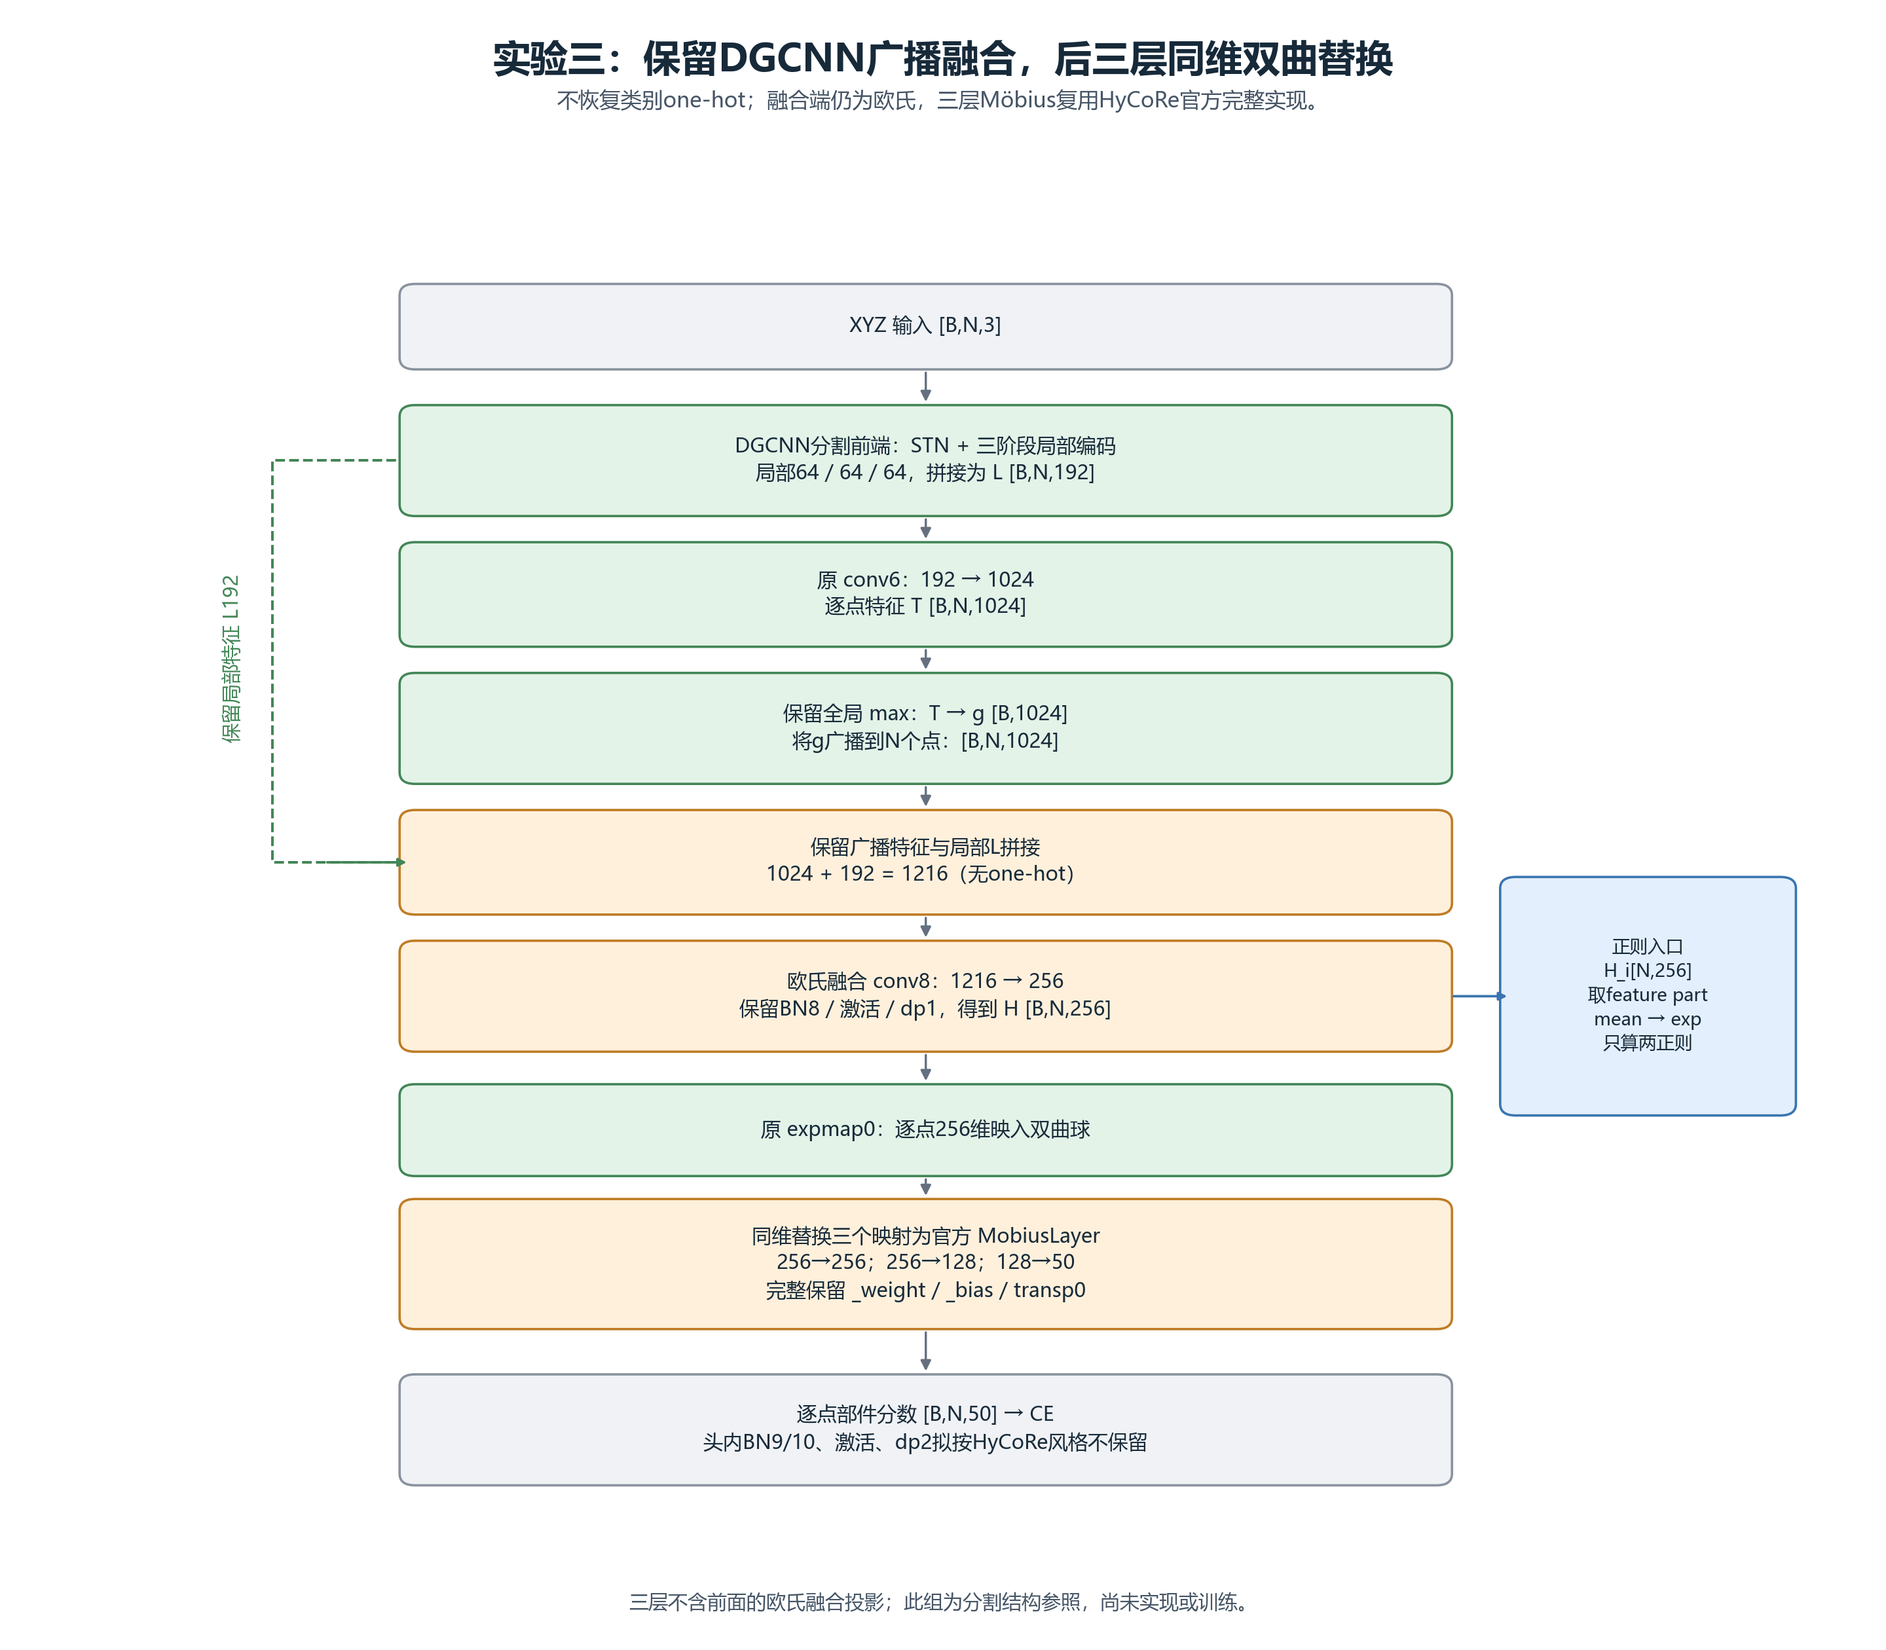
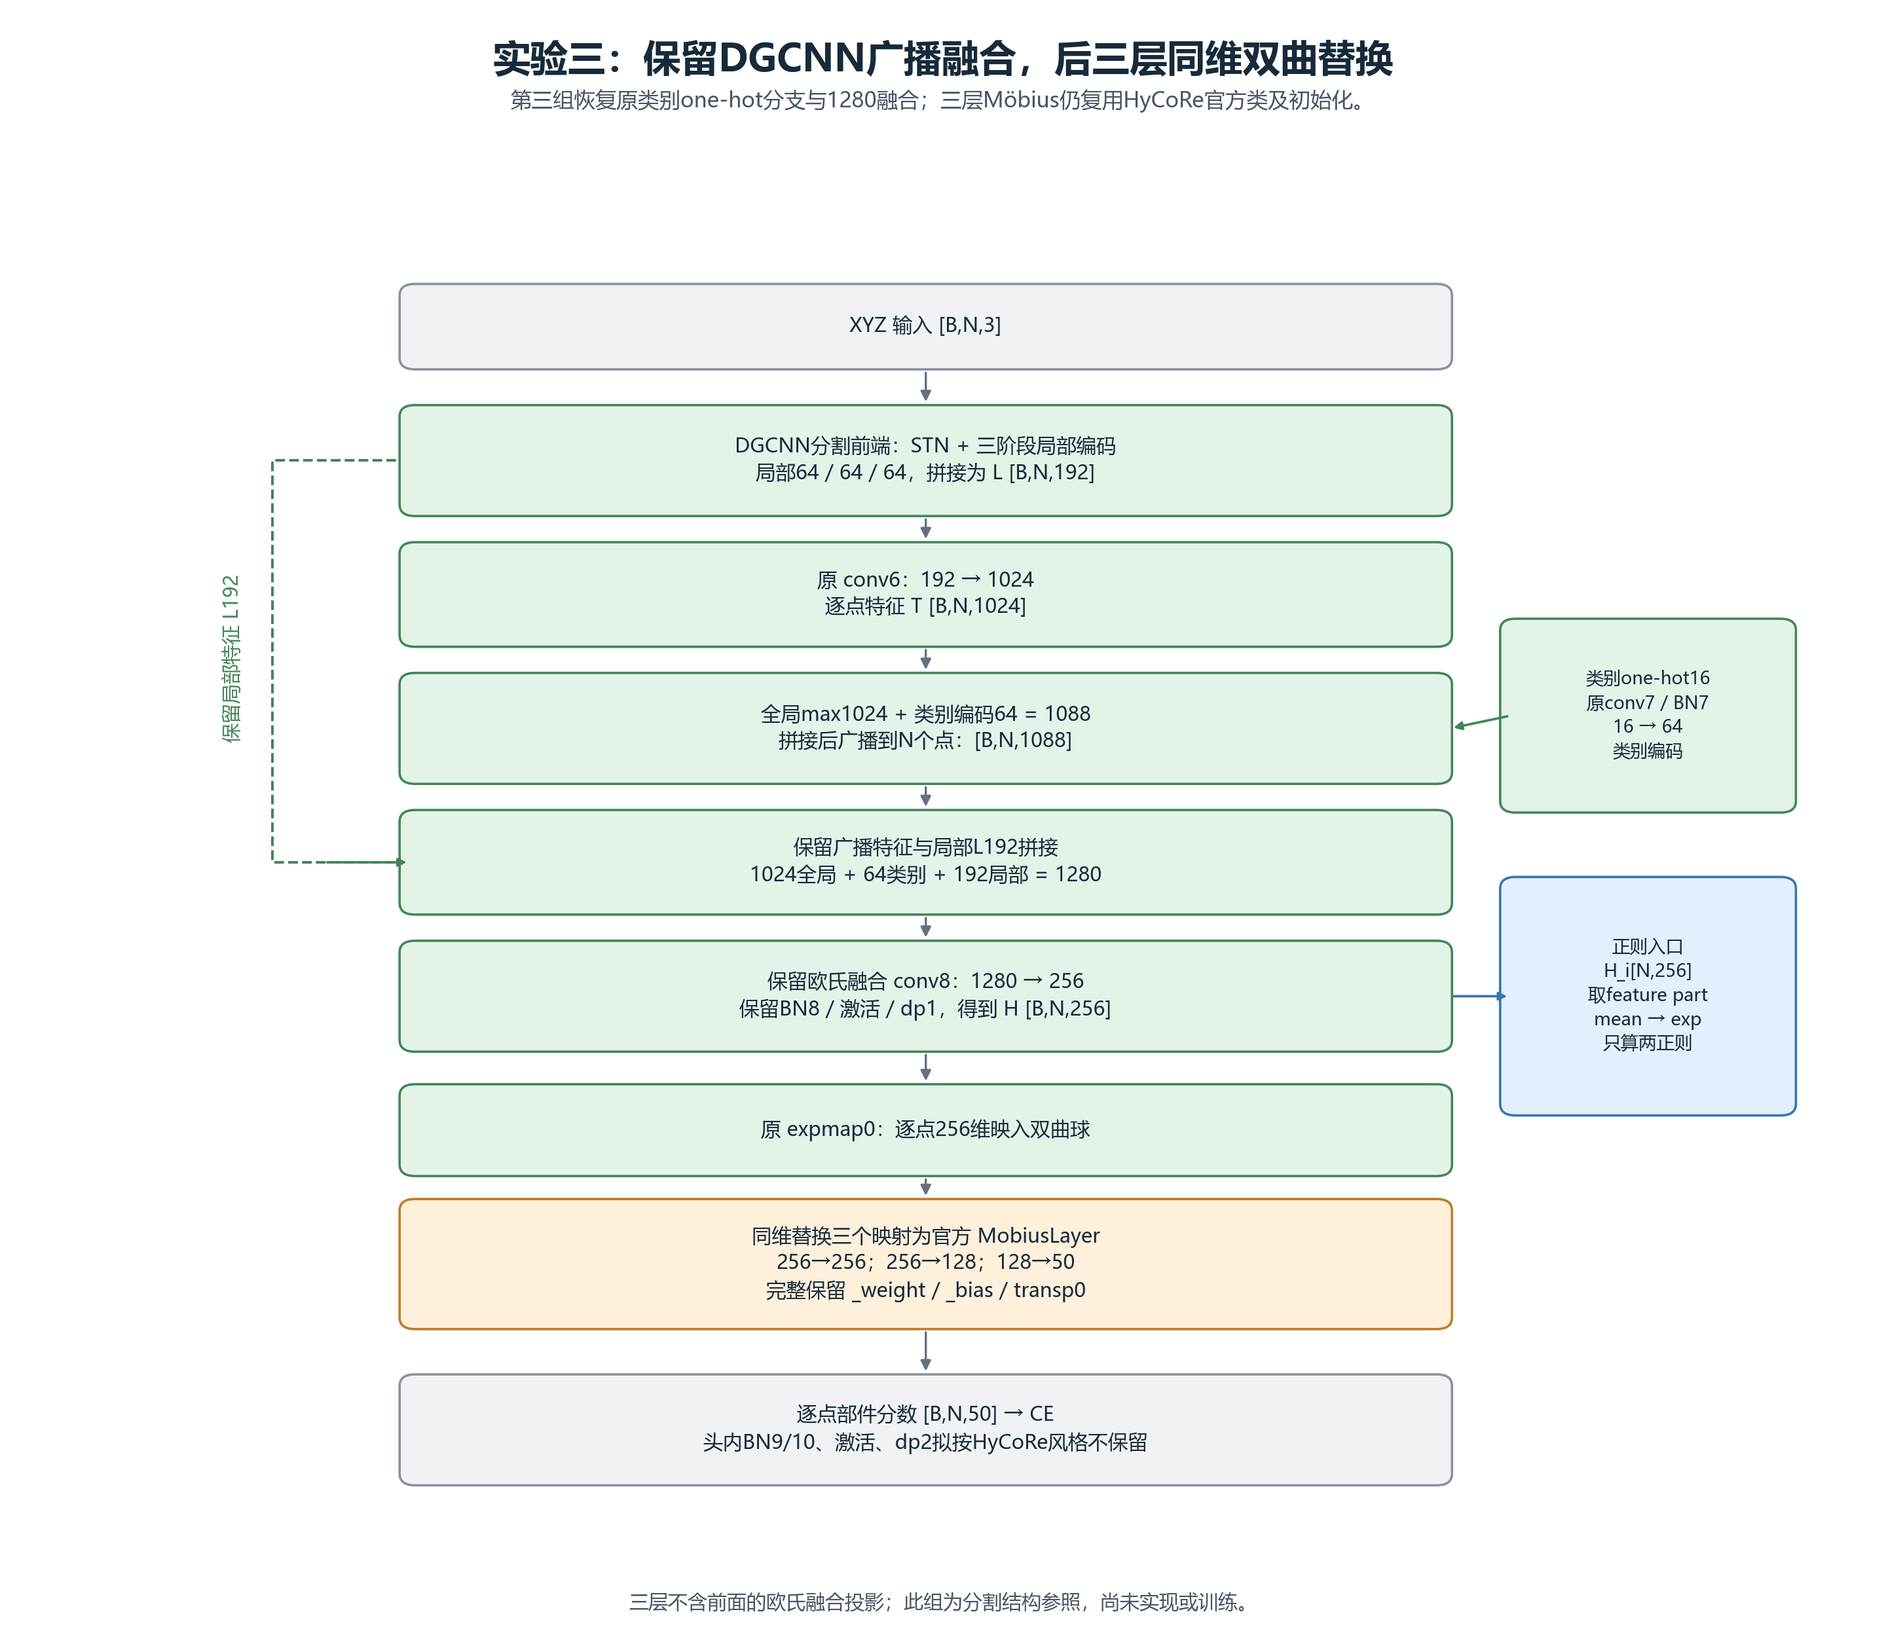
docs: restore third-arm category fusion and verify native Mobius initialization

diff --git a/docs/research/99_HYCORE_SEG_NATIVE_AUDIT_2026-10-28/probe_native_mobius_init.py b/docs/research/99_HYCORE_SEG_NATIVE_AUDIT_2026-10-28/probe_native_mobius_init.py
@@ -1,0 +1,127 @@
+"""CPU-only initialization probe of the original HyCoRe layer definitions.
+
+Usage: python probe_native_mobius_init.py <checkout-root>
+Does not construct a backbone, use a GPU, update parameters, or save checkpoints.
+"""
+
+import ast
+import hashlib
+import importlib.util
+import json
+import math
+import os
+from pathlib import Path
+import sys
+
+os.environ["CUDA_VISIBLE_DEVICES"] = ""
+import torch
+import geoopt
+from torch import nn
+from torch.nn import init
+from torch.nn.parameter import Parameter
+from geoopt import ManifoldParameter
+
+torch.set_num_threads(2)
+root = Path(sys.argv[1])
+ball_rel = "classification_ModelNet40/models/manifolds/poincareball.py"
+layer_rel = "classification_ModelNet40/models/ops/manifold_layers.py"
+ball_path, layer_path = root / ball_rel, root / layer_rel
+spec = importlib.util.spec_from_file_location("_original_hycore_ball_probe", ball_path)
+ball_module = importlib.util.module_from_spec(spec)
+spec.loader.exec_module(ball_module)
+Ball = ball_module.PoincareBall
+
+# Execute the exact two source class definitions without importing unrelated models.
+tree = ast.parse(layer_path.read_text())
+classes = [n for n in tree.body if isinstance(n, ast.ClassDef)
+           and n.name in {"RiemannianLayer", "MobiusLayer"}]
+assert len(classes) == 2
+namespace = {"torch": torch, "nn": nn, "init": init, "math": math,
+             "Parameter": Parameter, "ManifoldParameter": ManifoldParameter}
+exec(compile(ast.Module(body=classes, type_ignores=[]), str(layer_path), "exec"), namespace)
+Layer = namespace["MobiusLayer"]
+widths = [(256, 256), (256, 128), (128, 50)]
+
+
+def build(seed):
+    torch.manual_seed(seed)
+    return nn.ModuleList([Layer(a, b, Ball(dim=a, c=1.0)) for a, b in widths])
+
+
+def digest(model):
+    h = hashlib.sha256()
+    for name, tensor in sorted(model.state_dict().items()):
+        h.update(name.encode())
+        h.update(tensor.detach().cpu().contiguous().numpy().tobytes())
+    return h.hexdigest()
+
+
+layers = build(4780)
+initial_digest = digest(layers)
+assert initial_digest == digest(build(4780))
+initialization = []
+for layer, (a, b) in zip(layers, widths):
+    bound = 4 / math.sqrt(a)
+    assert tuple(layer._weight.shape) == (b, a)
+    assert tuple(layer._bias.shape) == (b, 1)
+    assert bool(torch.isfinite(layer.weight).all())
+    assert float(layer._bias.detach().abs().max()) <= bound
+    initialization.append({
+        "in_features": a, "out_features": b,
+        "raw_weight_std": float(layer._weight.detach().std()),
+        "expected_weight_std": 1 / math.sqrt(3 * a),
+        "bias_bound": bound,
+        "observed_bias_abs_max": float(layer._bias.detach().abs().max()),
+        "effective_weight_finite": True,
+    })
+
+cases = []
+for scale in (.02, 1.0):
+    layers.zero_grad(set_to_none=True)
+    generator = torch.Generator().manual_seed(4781)
+    features = (torch.randn(4, 8, 256, generator=generator) * scale).requires_grad_()
+    x = layers[0].manifold.expmap0(features)
+    input_ball_norm = x.detach().norm(dim=-1)
+    outputs = []
+    for layer, (_, b) in zip(layers, widths):
+        x = layer(x)
+        assert tuple(x.shape) == (4, 8, b)
+        assert bool(torch.isfinite(x).all())
+        outputs.append({"shape": list(x.shape), "max_ball_norm": float(x.detach().norm(dim=-1).max())})
+    labels = torch.arange(32) % 50
+    ce = torch.nn.functional.cross_entropy(x.reshape(-1, 50), labels)
+    ce.backward()
+    assert torch.isfinite(ce) and bool(torch.isfinite(features.grad).all())
+    gradients = []
+    for layer in layers:
+        row = {}
+        for name in ("_weight", "_bias"):
+            g = getattr(layer, name).grad
+            assert g is not None and bool(torch.isfinite(g).all()) and float(g.norm()) > 0
+            row[name] = float(g.norm())
+        gradients.append(row)
+    cases.append({
+        "synthetic_feature_std": scale,
+        "input_ball_max_norm": float(input_ball_norm.max()),
+        "input_near_projection_fraction": float((input_ball_norm >= .996 - 1e-6).float().mean()),
+        "outputs": outputs, "ce": float(ce.detach()),
+        "input_gradient_norm": float(features.grad.norm()),
+        "parameter_gradient_norms": gradients,
+        "finite_forward_backward": True,
+    })
+
+assert digest(layers) == initial_digest  # backward only: no optimizer update
+assert not torch.cuda.is_initialized()
+print(json.dumps({
+    "passed": True, "scope": "original_layers_only_cpu_synthetic_probe",
+    "seed": 4780, "dtype": "float32", "device": "cpu",
+    "environment": {"torch": torch.__version__, "geoopt": geoopt.__version__},
+    "sources": [{"file": rel, "sha256_lf": hashlib.sha256((root/rel).read_text().replace("\r\n", "\n").encode()).hexdigest()}
+                for rel in (ball_rel, layer_rel)],
+    "source_loading": "unchanged geometry module and exact source AST class definitions",
+    "head_parameters": sum(p.numel() for p in layers.parameters() if p.requires_grad),
+    "initial_state_sha256": initial_digest, "same_seed_repeat_identical": True,
+    "no_optimizer_update": True, "cuda_initialized": False,
+    "initialization": initialization, "cases": cases,
+    "not_validated": ["full_backbone_initialization", "real_feature_distribution", "GPU_numerics", "training_convergence", "paper_score"],
+}, ensure_ascii=False))

diff --git a/docs/research/99_HYCORE_SEG_NATIVE_AUDIT_2026-10-28/render_diagrams.py b/docs/research/99_HYCORE_SEG_NATIVE_AUDIT_2026-10-28/render_diagrams.py
@@ -177,15 +177,15 @@ def partseg_three():
     ax.set(xlim=(0, 1.02), ylim=(-.015, 1.02)); ax.axis("off")
     fig.suptitle("实验三：保留DGCNN广播融合，后三层同维双曲替换", y=.975,
                  fontsize=23, fontweight="bold", color="#172a3a")
-    fig.text(.5, .935, "不恢复类别one-hot；融合端仍为欧氏，三层Möbius复用HyCoRe官方完整实现。",
+    fig.text(.5, .935, "第三组恢复原类别one-hot分支与1280融合；三层Möbius仍复用HyCoRe官方类及初始化。",
              ha="center", fontsize=13, color="#465566")
     specs = [
         (.945, "XYZ 输入 [B,N,3]", "io", .055),
         (.84, "DGCNN分割前端：STN + 三阶段局部编码\n局部64 / 64 / 64，拼接为 L [B,N,192]", "keep", .075),
         (.735, "原 conv6：192 → 1024\n逐点特征 T [B,N,1024]", "keep", .07),
-        (.63, "保留全局 max：T → g [B,1024]\n将g广播到N个点：[B,N,1024]", "keep", .075),
-        (.525, "保留广播特征与局部L拼接\n1024 + 192 = 1216（无one-hot）", "change", .07),
-        (.42, "欧氏融合 conv8：1216 → 256\n保留BN8 / 激活 / dp1，得到 H [B,N,256]", "change", .075),
+        (.63, "全局max1024 + 类别编码64 = 1088\n拼接后广播到N个点：[B,N,1088]", "keep", .075),
+        (.525, "保留广播特征与局部L192拼接\n1024全局 + 64类别 + 192局部 = 1280", "keep", .07),
+        (.42, "保留欧氏融合 conv8：1280 → 256\n保留BN8 / 激活 / dp1，得到 H [B,N,256]", "keep", .075),
         (.315, "原 expmap0：逐点256维映入双曲球", "keep", .06),
         (.21, "同维替换三个映射为官方 MobiusLayer\n256→256；256→128；128→50\n完整保留 _weight / _bias / transp0", "change", .09),
         (.08, "逐点部件分数 [B,N,50] → CE\n头内BN9/10、激活、dp2拟按HyCoRe风格不保留", "io", .075),
@@ -197,6 +197,9 @@ def partseg_three():
                 arrowprops={"arrowstyle":"-|>","color":COLORS["keep"][1],"lw":1.5})
     ax.text(.097,.685,"保留局部特征 L192",rotation=90,ha="center",va="center",
             fontsize=12,color=COLORS["keep"][1])
+    box(ax,(.84,1.0),.64,"类别one-hot16\n原conv7 / BN7\n16 → 64\n类别编码", "keep",.14,10.8)
+    ax.annotate("",xy=(.805,.63),xytext=(.84,.64),
+                arrowprops={"arrowstyle":"-|>","color":COLORS["keep"][1],"lw":1.5})
     box(ax,(.84,1.0),.42,"正则入口\nH_i[N,256]\n取feature part\nmean → exp\n只算两正则", "add",.175,11)
     ax.annotate("",xy=(.84,.42),xytext=(.805,.42),
                 arrowprops={"arrowstyle":"-|>","color":COLORS["add"][1],"lw":1.5})

diff --git a/docs/research/99_HYCORE_SEG_NATIVE_AUDIT_2026-10-28/audit_plan.md b/docs/research/99_HYCORE_SEG_NATIVE_AUDIT_2026-10-28/audit_plan.md
@@ -40,12 +40,13 @@
 | `figures/regularizer_comparison.png/.svg` | 用户追加要求：part选择、正则入口、负例和层次方向对照 |
 | `figures/branch_gradient_flow.png/.svg` | 用户七问后澄清：CE与reg独立分支、共享backbone梯度及训练入口汇合 |
 | `figures/partseg_three_layer.png/.svg` | 用户新增实验三：保留DGCNN分割广播融合、后三层同维替换为官方Mobius |
+| `native_layer_init_probe.json` / `probe_native_mobius_init.py` | 原官方三层新尺寸的CPU初始化/前向/反向检查；非完整v2训练 |
 
-主报告直接嵌入四张PNG，提供SVG及模型/关系对照的可编辑Mermaid。图已逐张视觉核验，分割结构标为拟改方案；当前主线无one-hot/新增桥，Pglobal列为消融，Pseg3明确保留分割广播融合并替换256→256→128→50三层。正则逐物体平均，P0/Pglobal的H为512维，Pseg3为256维，正则分支不含CE。此前1040桥仅留历史。
+主报告直接嵌入四张PNG，提供SVG及模型/关系对照的可编辑Mermaid。图已逐张视觉核验，分割结构标为拟改方案；P0/Pglobal无one-hot，Pseg3按最新用户要求恢复one-hot16→64与原1280融合，替换256→256→128→50三层。正则逐物体平均，P0/Pglobal的H为512维，Pseg3为256维，正则分支不含CE。此前1040桥仅留历史。
 
 ## 4. 本轮边界与沿用决定
 
-不修改原分类实现、现有 v1、数据或服务器结果，不终止/重启现有训练。本轮不连接服务器、不分配 GPU。
+不修改原分类实现、现有v1、数据或服务器结果，不终止/重启现有训练。初始审查无服务器动作；用户追问初始化后补做一次服务器CPU原层探针，读取原源码，仅初始化和反传，不使用GPU、不更新参数或服务器文件，不视为v2完整实现或训练。
 
 沿用用户决定：seed4780；层次间隔 `1000/N′`，对比间隔4；分割 train+val 训练、逐轮 test Instance mIoU 选 best、固定200轮，不 early-stop。论文未确定的训练细节不能写成作者原配方。ModelNet40 的其他协议不因本轮改变。
 

diff --git a/docs/research/00_RESEARCH_HANDOFF.md b/docs/research/00_RESEARCH_HANDOFF.md
@@ -1,5 +1,9 @@
 # Research handoff: HyCoRe inter-sample hierarchy
 
+## 2026-10-28：第三组恢复one-hot与1280融合，官方新尺寸Möbius原层CPU初始化检查通过
+
+用户要求Pseg3保留原DGCNN类别输入，恢复one-hot16→64、1024global+64category+192local=1280融合；P0/Pglobal仍无one-hot。三层继续复用官方MobiusLayer类及reset_parameters，仅按256→256→128→50新建，不复制旧分类权重。原层独立CPU/FP32检查在seed4780下通过：同seed初始state一致，两组模拟尺度的前向/输入及_weight/_bias梯度均有限且非零，无CUDA初始化、无optimizer.step。证据99/native_layer_init_probe.json，源码LF哈希与本机对应原文件核对；完整v2、真实特征分布/GPU及训练尚未验证。此轮仅原层CPU探针及文档/图修订，未改服务器源码/训练或结果。E3静态参数恢复类别后相对原AnTao净少334，不再扣去原类别支路17536。
+
 ## 2026-10-28：用户新增第三组Pseg3，保留DGCNN广播融合与三层同维双曲头
 
 用户认可P0/Pglobal之外，再补原DGCNN分割MLP同维双曲替换，并指定保留global池化/广播/局部融合。99计划§7和图已定义Pseg3：去one-hot但保留1024global+192local=1216融合→256（BN8/激活/dp1保留），H[B,N,256]→exp→原Mobius256→256→128→50三层；该256维欧氏H用于正则。三层不含前融合层，尾部BN9/10、激活/dp2拟按HyCoRe头风格不保留，配套变化与仅同宽替换区别说明。此组是分割骨干结构参照，P0/Pglobal仍保留分类骨干主线；不把骨干/头宽差异归因于单独层数。仅补设计/图，无模型代码修改或新训练。

diff --git a/docs/research/04_NEXT_EXPERIMENT_PLAN.md b/docs/research/04_NEXT_EXPERIMENT_PLAN.md
@@ -1,5 +1,9 @@
 # Next experiment plan — current review and historical drafts
 
+## 2026-10-28：Pseg3保留one-hot，初始化规则继续复用官方实现
+
+用户将第三组改为保留原类别编码16→64、全局/类别广播和1280→256融合；P0/Pglobal仍无one-hot。三层官方MobiusLayer256→256→128→50沿用kaiming_normal(a=√5)、_bias±4/√fan_in和exp/transp0，按各层输入维度新建。独立CPU原层初始化/前向/梯度检查已通过并保存99探针结果，但完整网络、实际H范围、GPU和训练仍待实现验收。仅记录此CPU验证，不作为新完整训练启动；详见99计划§7–8。
+
 ## 2026-10-28：新增实验三Pseg3，保留分割广播融合，尾部三层同维替换
 
 用户新增第三组并明确保留DGCNN分割的global-max→广播→局部特征融合。见[99计划§7](99_HYCORE_SEG_NATIVE_AUDIT_2026-10-28/reproduction_plan.md)：参考原partseg前端，继续无one-hot，全局1024+局部192=1216→欧氏融合256，得到H[B,N,256]；exp后把conv9/10/11逐层换为完整官方Mobius256→256→128→50，正则从该256维欧氏H平均exp。尾部BN/激活/dropout拟按HyCoRe头风格移除，融合端保留并明确记录差异。第三组是原分割结构参照，不改变P0/Pglobal主线，不把编码器/宽度变化归因于单独层数效应。统一seed4780与既定协议，本轮只加设计，不启动新训练。

diff --git a/docs/research/01_EXPERIMENT_HISTORY.md b/docs/research/01_EXPERIMENT_HISTORY.md
@@ -1,5 +1,9 @@
 # Experiment history
 
+## 2026-10-28：第三组one-hot恢复，原层初始化CPU探针完成，未启动新训练
+
+用户指定Pseg3恢复类别one-hot16→64及1280广播融合，前两组仍无类别输入。三层复用官方MobiusLayer/reset_parameters，原源码定义在CPU上按256→256→128→50新建，seed4780重复初始化一致；低/高模拟输入尺度均前向及梯度有限、三层_weight/_bias梯度非零、参数不更新、CUDA未初始化，见99初始化探针JSON。完整v2尚未实现，真实骨干/数据/GPU/收敛未验收；没有新训练或改写服务器文件。计划、审查图及交接已更新。
+
 ## 2026-10-28：seg设计精简，未新增实验
 
 用户批注要求少增实体、去one-hot、额外局部绕接考虑消融，并质疑替换原flip。99已修订为保留原逐点encoder、主路径省最后global池化，原linear1改1024→512逐点投影，沿用完整双曲头；不新增融合桥，额外绕接仅待审。重核两篇论文负例定义一致；主候选保留官方flip，增加同类/自身配对统计，论文异类语义差异单列。三张PNG/SVG、报告、计划同步；所有模型代码及旧结果未动，无服务器/GPU动作。旧1040桥属于历史候选。
